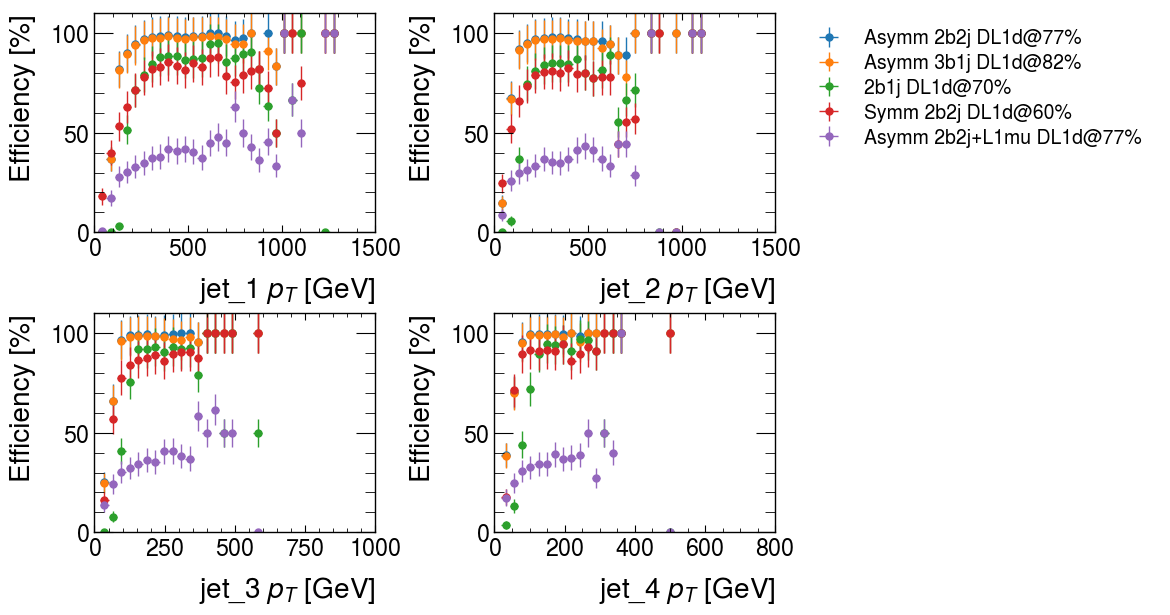
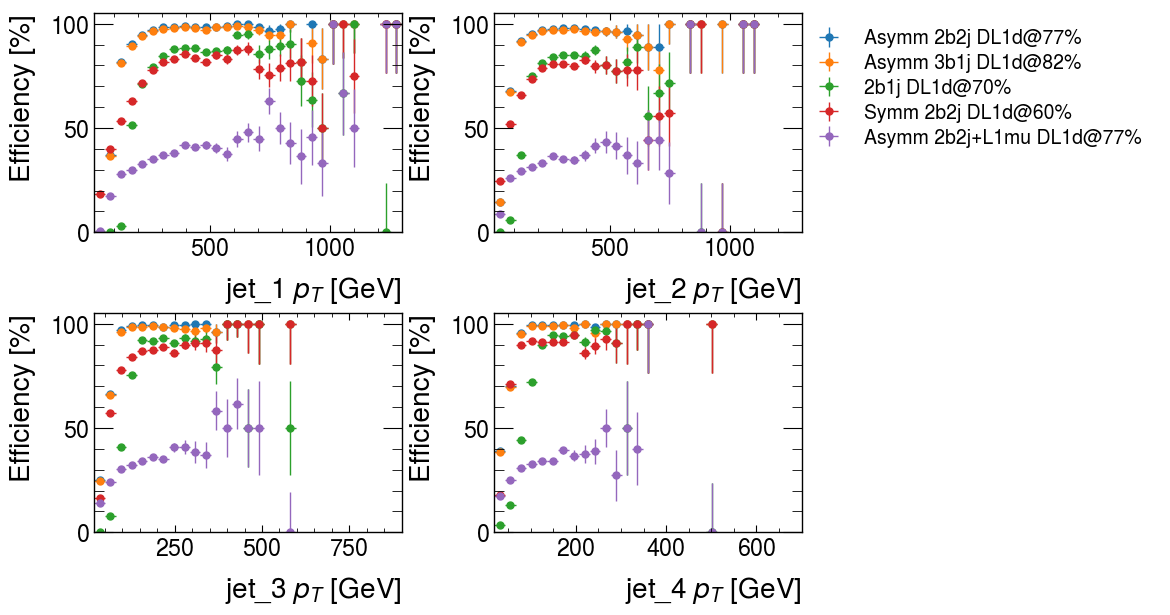
Add Bayesian error estimation

diff --git a/plot_resolved_HH4b.py b/plot_resolved_HH4b.py
@@ -1,16 +1,20 @@
+import concurrent.futures
 import uproot
 import numpy as np
 import awkward as ak
 import vector as p4
 import matplotlib.pyplot as plt
 import mplhep as hep
-from histograms import IntHistogram, IntHistogramdd
+from histograms import IntHistogram, IntHistogramdd, EffHistogram
 
 plt.style.use(hep.style.ATLAS)
 
+np.seterr(divide="ignore", invalid="ignore")
+
+executor = concurrent.futures.ThreadPoolExecutor(8 * 32)  # 32 threads
+
 invGeV = 1 / 1_000
 
-np.seterr(divide="ignore", invalid="ignore")
 
 # Define samples
 mc21_ggF_k01_small = "/lustre/fs22/group/atlas/ruelasv/hh4b-analysis-r22-build/run/analysis-variables-run3-k01"
@@ -40,12 +44,12 @@ run3_asymm_L1_all = run3_all[0:2] + run3_all[4:5]
 run2 = run3_all[2:4]
 
 trig_sets = {
-    "run2": run2,
-    "run3_main_stream": run3_main_stream,
-    "run3_delayed_stream": run3_delayed_stream,
-    "run3_asymm_L1_jet": run3_asymm_L1_jet,
-    "run3_asymm_L1_all": run3_asymm_L1_all,
-    "run3_all": run3_all,
+    "Run 2": run2,
+    "Main physics stream": run3_main_stream,
+    "Main + delayed streams": run3_delayed_stream,
+    "Asymm L1 jet": run3_asymm_L1_jet,
+    "Asymm L1 all": run3_asymm_L1_all,
+    "OR of all": run3_all,
 }
 
 # Define histograms
@@ -54,9 +58,9 @@ truth_diHiggs_mass_hist = IntHistogram(
 )
 leading_jets_pt_hist = IntHistogramdd("leading_jets_pt", [20_000, 2_000_000], bins=100)
 trig_sets_hists = {}
-for trig_set in trig_sets.keys():
-    trig_sets_hists[trig_set] = IntHistogramdd(
-        f"truth_diHiggs_passed_trig_{trig_set}", [200_000, 1_300_000], bins=40
+for trig_set_key in trig_sets.keys():
+    trig_sets_hists[trig_set_key] = EffHistogram(
+        f"truth_diHiggs_passed_trig_{trig_set_key}", [200_000, 1_300_000], bins=40
     )
 leading_jets_passed_trig_hists = {}
 for ith_leading_jet in np.arange(0, 4):
@@ -67,7 +71,7 @@ for ith_leading_jet in np.arange(0, 4):
     if ith_leading_jet == 3:
         bin_range = [20_000, 700_000]
     for trig_short in run3_all_short:
-        leading_jets_passed_trig_hists[ith_leading_jet][trig_short] = IntHistogramdd(
+        leading_jets_passed_trig_hists[ith_leading_jet][trig_short] = EffHistogram(
             f"jet{ith_leading_jet}_pt_passed_{trig_short}",
             bin_range,
             bins=30,
@@ -83,7 +87,7 @@ trig_sets_btag_hists = {}
 for btagger in btaggers:
     trig_sets_btag_hists[btagger] = {}
     for trig_set in trig_sets.keys():
-        trig_sets_btag_hists[btagger][trig_set] = IntHistogramdd(
+        trig_sets_btag_hists[btagger][trig_set] = EffHistogram(
             f"truth_diHiggs_passed_trig_{trig_set}_btag_{btagger}",
             [200_000, 1_300_000],
             bins=40,
@@ -101,7 +105,7 @@ for btagger in btaggers:
         for trig_short in run3_all_short:
             leading_jets_passed_trig_btag_hists[btagger][ith_leading_jet][
                 trig_short
-            ] = IntHistogramdd(
+            ] = EffHistogram(
                 f"b_jet{ith_leading_jet}_pt_passed_{trig_short}",
                 bin_range,
                 bins=30,
@@ -174,7 +178,7 @@ def compute_eff(passed, total, percentage=True):
 #                 ax=ax_top,
 #                 histtype="errorbar",
 #                 xerr=mass_res / 2,
-#                 yerr=np.sqrt(eff),
+#                 yerr=False,
 #                 label=trig_short,
 #             )
 #             # ratio = h_pass_btag / h_pass
@@ -190,7 +194,7 @@ def compute_eff(passed, total, percentage=True):
 #             )
 
 #         ax_top.set_ylabel("Efficiency [%]")
-#         ax_bottom.set_ylim(0, 5)
+#         ax_bottom.set_ylim(0.5, 2.1)
 #         ax_bottom.axhline(y=1.0, color="black")
 #         ax_bottom.set_xlabel(f"jet_{i+1} " + r"$p_{T}$ [GeV]")
 #         ax_bottom.set_ylabel(f"Ratio to b-tagged")
@@ -294,28 +298,26 @@ def draw_leading_b_jet_pt_vs_trig_eff_hists(tagger="DL1dv01", tagger_eff="77"):
     for i in np.arange(0, 4):
         ith_leading_jet = i
         for trig_short in run3_all_short:
-            h_pass, h_tot = leading_jets_passed_trig_btag_hists[
-                f"{tagger}_{tagger_eff}"
-            ][ith_leading_jet][trig_short].values
             mass_bins = (
                 leading_jets_passed_trig_btag_hists[f"{tagger}_{tagger_eff}"][
                     ith_leading_jet
                 ][trig_short].edges
                 * invGeV
             )
-            eff = (h_pass / h_tot) * 100
+            eff, err = leading_jets_passed_trig_btag_hists[f"{tagger}_{tagger_eff}"][
+                ith_leading_jet
+            ][trig_short].values
             hep.histplot(
-                eff,
+                eff * 100,
                 mass_bins,
                 ax=axs[i],
                 histtype="errorbar",
                 xerr=True,
-                yerr=np.sqrt(eff),
+                yerr=err * 100,
                 label=trig_short,
             )
-        # axs[i].set_ylim(-5, 55)
-        # axs[i].set_xlim(mass_bins[0], mass_bins[-1])
-        axs[i].set_ylim(0, 110)
+        axs[i].set_xlim(mass_bins[0], mass_bins[-1])
+        axs[i].set_ylim(0, 105)
         axs[i].set_xlabel(f"jet_{i+1} " + r"$p_{T}$ [GeV]")
         axs[i].set_ylabel("Efficiency [%]")
         handles, labels = axs[i].get_legend_handles_labels()
@@ -336,24 +338,23 @@ def draw_leading_jet_pt_vs_trig_eff_hists():
     for i in np.arange(0, 4):
         ith_leading_jet = i
         for trig_short in run3_all_short:
-            h_pass, h_tot = leading_jets_passed_trig_hists[ith_leading_jet][
-                trig_short
-            ].values
             mass_bins = (
                 leading_jets_passed_trig_hists[ith_leading_jet][trig_short].edges
                 * invGeV
             )
-            eff = (h_pass / h_tot) * 100
+            eff, err = leading_jets_passed_trig_hists[ith_leading_jet][
+                trig_short
+            ].values
             hep.histplot(
-                eff,
+                eff * 100,
                 mass_bins,
                 ax=axs[i],
                 histtype="errorbar",
                 xerr=True,
-                yerr=np.sqrt(eff),
+                yerr=err * 100,
                 label=trig_short,
             )
-        axs[i].set_ylim(-5, 115)
+        axs[i].set_ylim(0, 105)
         axs[i].set_xlim(mass_bins[0], mass_bins[-1])
         axs[i].set_xlabel(f"jet_{i+1} " + r"$p_{T}$ [GeV]")
         axs[i].set_ylabel("Efficiency [%]")
@@ -389,24 +390,24 @@ def draw_truth_diHiggs_trig_eff_hists():
     num_trig_sets = len(trig_sets_hists.keys())
     cm = plt.get_cmap("gist_ncar")
     for i_trig_set, trig_set_key in enumerate(trig_sets_hists.keys()):
-        h_pass_trig, h_tot = trig_sets_hists[trig_set_key].values
-        eff = (h_pass_trig / h_tot) * 100
+        mass_ranges = trig_sets_hists[trig_set_key].edges * invGeV
+        eff, err = trig_sets_hists[trig_set_key].values
         hep.histplot(
-            eff,
-            trig_sets_hists[trig_set_key].edges * invGeV,
+            eff * 100,
+            mass_ranges,
             ax=ax,
             histtype="errorbar",
             xerr=True,
-            yerr=np.sqrt(eff),
+            yerr=err * 100,
             label=trig_set_key,
             color=cm(1.0 * i_trig_set / num_trig_sets),
             # markersize=5.0,
             # elinewidth=0.8,
         )
     ax.legend(loc="lower center")
-    ax.set_ylim(0, 115)
+    ax.set_ylim(0, 105)
     ax.set_xlabel(r"$m_{HH}$ [GeV]")
-    ax.set_ylabel("Efficiency [%]")
+    ax.set_ylabel("Trigger Efficiency [%]")
 
     fig.savefig("trig_eff_vs_truth_diHiggs_mass.png", bbox_inches="tight")
     plt.close()
@@ -420,24 +421,23 @@ def draw_truth_diHiggs_trig_eff_btag_hists(tagger="DL1dv01", tagger_eff="77"):
     num_trig_sets = len(trig_sets_btagger_hists.keys())
     cm = plt.get_cmap("gist_ncar")
     for i_trig_set, trig_set_key in enumerate(trig_sets_btagger_hists.keys()):
-        h_pass_trig, h_tot = trig_sets_btagger_hists[trig_set_key].values
-        eff = (h_pass_trig / h_tot) * 100
         bins = trig_sets_btagger_hists[trig_set_key].edges * invGeV
+        eff, err = trig_sets_btagger_hists[trig_set_key].values
         hep.histplot(
-            eff,
+            eff * 100,
             bins,
             ax=ax_top,
             histtype="errorbar",
             xerr=True,
-            yerr=np.sqrt(eff),
+            yerr=err * 100,
             label=trig_set_key,
             color=cm(1.0 * i_trig_set / num_trig_sets),
             # markersize=5.0,
             # elinewidth=0.8,
         )
-        run2_key = "run2"
+        run2_key = "Run 2"
         if trig_set_key != run2_key:
-            ratio = h_pass_trig / trig_sets_btagger_hists[run2_key].values[0]
+            ratio = eff / trig_sets_btagger_hists[run2_key].values[0]
             hep.histplot(
                 ratio,
                 bins,
@@ -448,12 +448,12 @@ def draw_truth_diHiggs_trig_eff_btag_hists(tagger="DL1dv01", tagger_eff="77"):
                 label=trig_set_key,
                 color=cm(1.0 * i_trig_set / num_trig_sets),
             )
-    ax_top.set_ylim(0, 115)
+    ax_top.set_ylim(0, 105)
     ax_top.legend(loc="lower center")
-    ax_top.set_ylabel("Efficiency [%]")
+    ax_top.set_ylabel("Trigger Efficiency [%]")
     ax_bottom.set_xlabel(r"$m_{HH}$ [GeV]")
     ax_bottom.set_ylabel("Ratio to Run2")
-    ax_bottom.set_ylim(0, 5)
+    ax_bottom.set_ylim(0.5, 2.1)
     ax_bottom.axhline(y=1.0, color="black")
 
     fig.savefig(
@@ -565,6 +565,8 @@ def run():
             ],
             step_size="1 GB",
             report=True,
+            # decompression_executor=executor,
+            # interpretation_executor=executor,
         ):
             print(report)
             fill_hists(events)

diff --git a/error_estimation.py b/error_estimation.py
@@ -1,0 +1,85 @@
+import numpy as np
+from scipy import stats
+
+
+def EfficiencyErrorBayesian(k, n, bUpper):
+    """Error estimation based on Bayesian methods. Calculation is per bin.
+    Parameters
+    ----------
+        k       :   0 <= number of passed events <= total
+        n       :   number of total events
+        bUpper  :   true - upper boundary is returned
+                    false - lower boundary is returned
+
+    https://arxiv.org/abs/physics/0701199v1
+    """
+    if n == 0:
+        if bUpper:
+            return 0
+        else:
+            return 1
+
+    firstTerm = ((k + 1) * (k + 2)) / ((n + 2) * (n + 3))
+    secondTerm = ((k + 1) ** 2) / ((n + 2) ** 2)
+    error = np.sqrt(firstTerm - secondTerm)
+    mean = k / n
+    if bUpper:
+        if (mean + error) >= 1:
+            return 1.0
+        else:
+            return mean + error
+    else:
+        if (mean - error) <= 0:
+            return 0.0
+        else:
+            return mean - error
+
+
+def getEfficiencyWithUncertainties(passed, total):
+    """Get relative upper and lower error bar positions"""
+    upper_err = np.array(
+        [
+            EfficiencyErrorBayesian(passed, total, bUpper=True)
+            for passed, total in zip(passed, total)
+        ]
+    )
+    lower_err = np.array(
+        [
+            EfficiencyErrorBayesian(passed, total, bUpper=False)
+            for passed, total in zip(passed, total)
+        ]
+    )
+
+    # TODO: Root implementation
+    # upper_err = np.array(
+    #     [Bayesian(passed, total, bUpper=True) for passed, total in zip(passed, total)],
+    #     dtype=np.float32,
+    # )
+    # lower_err = np.array(
+    #     [Bayesian(passed, total, bUpper=False) for passed, total in zip(passed, total)],
+    #     dtype=np.float32,
+    # )
+
+    efficiency = passed / total
+    relative_errors = np.array([efficiency - lower_err, upper_err - efficiency])
+    return efficiency, relative_errors
+
+
+# TODO: as implemented in Root
+def Bayesian(total, passed, level=0.682689492137, alpha=1.0, beta=1.0, bUpper=False):
+    a = passed + alpha
+    b = (total - passed) + beta
+    return BetaCentralInterval(level, a, b, bUpper)
+
+
+def BetaCentralInterval(level, a, b, bUpper):
+    if bUpper:
+        if (a > 0) & (b > 0):
+            return stats.beta.ppf((1 + level) / 2, a, b)
+        else:
+            return 1.0
+    else:
+        if (a > 0) & (b > 0):
+            return stats.beta.ppf((1 - level) / 2, a, b)
+        else:
+            0

diff --git a/histograms.py b/histograms.py
@@ -1,5 +1,6 @@
 import numpy as np
 from abc import ABC, abstractmethod
+from error_estimation import getEfficiencyWithUncertainties
 
 
 class Histogram(ABC):
@@ -36,3 +37,18 @@ class IntHistogramdd(IntHistogram):
     def fill(self, *vals):
         hist = np.array([np.histogram(data, self._bins)[0] for data in vals])
         self._hist = self._hist + hist
+
+
+class EffHistogram(IntHistogramdd):
+    def fill(self, *vals):
+        assert (
+            len(vals) == 2
+        ), "EffHistogram only accepts 2 input params, h_pass and h_total"
+        hist = np.array([np.histogram(data, self._bins)[0] for data in vals])
+        self._hist = self._hist + hist
+
+    @property
+    def values(self):
+        passed, total = self._hist
+        eff, err = getEfficiencyWithUncertainties(passed, total)
+        return eff, err
